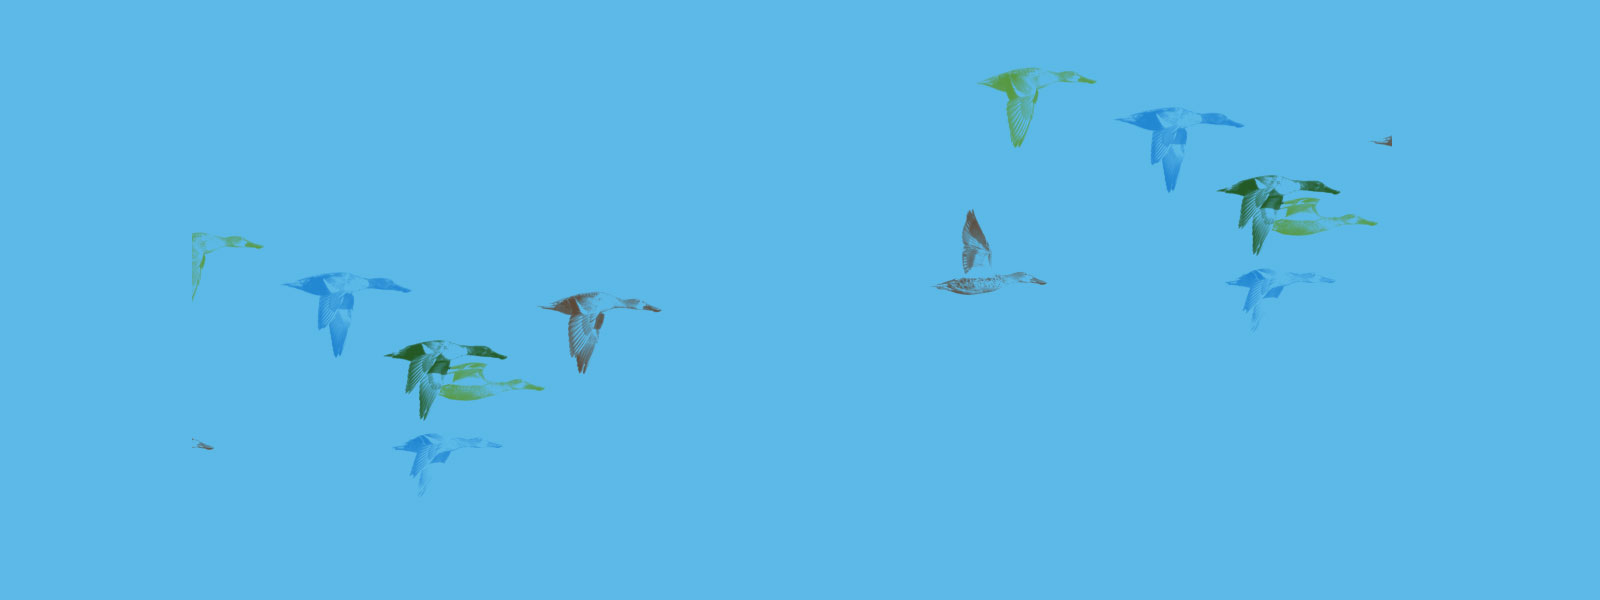
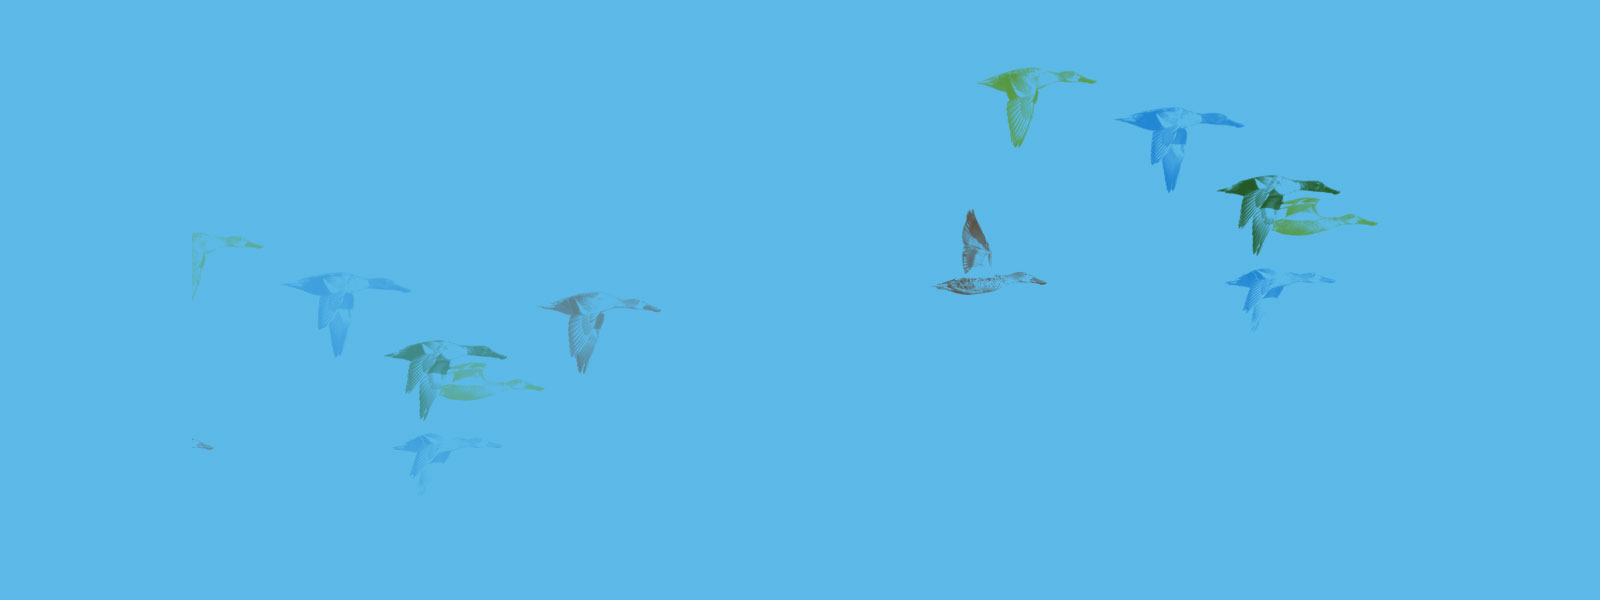
about section

diff --git a/torchbox/templates/torchbox/job_index_page.html b/torchbox/templates/torchbox/job_index_page.html
@@ -31,6 +31,27 @@
     </section>
     
     <section class="benefits">
+
+        <ul>
+            <li class="int-proj">
+                <h3>Interesting projects</h3>
+                <p>We work on all kinds of projects and try to match people to the work that most interests them.</p>
+            </li>
+            <li class="healthy">
+                <h3>Healthy environment</h3>
+                <p>We work on all kinds of projects and try to match people to the work that most interests them.</p>
+            </li>
+            <li class="int-proj">
+                <h3>Interesting projects</h3>
+                <p>We work on all kinds of projects and try to match people to the work that most interests them.</p>
+            </li>
+            <li class="int-proj">
+                <h3>Interesting projects</h3>
+                <p>We work on all kinds of projects and try to match people to the work that most interests them.</p>
+            </li>
+        </ul>        
+
+
         {% if self.content_block.all %}
         <ul>
             {% for block in self.content_block.all %}
@@ -44,6 +65,9 @@
             {% endfor %}
         </ul>
         {% endif %}
+
+
+
     </section>
 
 {% endblock %}

diff --git a/torchbox/static/torchbox/css/medium.css b/torchbox/static/torchbox/css/medium.css
@@ -316,7 +316,7 @@
     padding-bottom: 3em;
     padding-left: 4em;
     padding-right: 4em;
-    background: url("/static/torchbox/images/ducks.jpg") no-repeat bottom #5CB9E7;
+    background: url("/static/torchbox/images/ducks.jpg") no-repeat #5CB9E7;
 	}
 
 	.page-jobindexpage h1 {
@@ -336,7 +336,17 @@
 	.page-jobindexpage .benefits li {
 	    position: relative;
 	    min-height: 18em;
-	    padding: 4em 2em;
+	}
+
+	.page-jobindexpage .benefits li.int-proj {
+	    position: relative;
+	    min-height: 18em;
+	    background: url("/static/torchbox/images/jobs-placeholder-05.jpg") no-repeat #5CB9E7;
+	}
+	.page-jobindexpage .benefits li.healthy {
+	    position: relative;
+	    min-height: 18em;
+	    background: url("/static/torchbox/images/jobs-placeholder-04.jpg") no-repeat #5CB9E7;
 	}
 
 	.page-jobindexpage main .benefits .heading-block {
@@ -352,7 +362,7 @@
 	}
 
 	.page-jobindexpage .benefits li {
-		padding: 3em 2em;
+		padding: 0;
 	}
 
 	.page-jobindexpage .benefits li > div > div {
